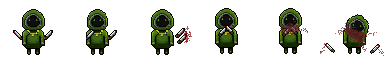
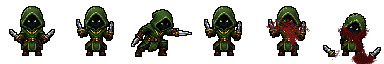
ccc

diff --git a/js/data.js b/js/data.js
@@ -44,7 +44,7 @@ const GAUNTLET_UNRANKED_OPPONENTS = {
     baseEnemyId: "bandit",
     className: "bandit",
     spriteSheet: "",
-    stats: { maxHp: 430, damage: 29, attackSpeed: 0.95, armor: 6 }
+    stats: { maxHp: 430, damage: 29, attackSpeed: 0.95, armor: 6, armorPiercing: 2 }
   },
   iron_contender: {
     id: "iron_contender",
@@ -52,7 +52,7 @@ const GAUNTLET_UNRANKED_OPPONENTS = {
     baseEnemyId: "armored_knight",
     className: "armored-knight",
     spriteSheet: "",
-    stats: { maxHp: 900, damage: 45, attackSpeed: 1.05, armor: 12 }
+    stats: { maxHp: 900, damage: 45, attackSpeed: 1.05, armor: 12, armorPiercing: 4 }
   },
   grave_veteran: {
     id: "grave_veteran",
@@ -60,7 +60,7 @@ const GAUNTLET_UNRANKED_OPPONENTS = {
     baseEnemyId: "wraith",
     className: "wraith",
     spriteSheet: "",
-    stats: { maxHp: 1500, damage: 68, attackSpeed: 1.08, armor: 10 }
+    stats: { maxHp: 1500, damage: 68, attackSpeed: 1.08, armor: 10, armorPiercing: 4 }
   },
   crown_champion: {
     id: "crown_champion",
@@ -68,7 +68,7 @@ const GAUNTLET_UNRANKED_OPPONENTS = {
     baseEnemyId: "fallen_knight",
     className: "fallen-knight",
     spriteSheet: "",
-    stats: { maxHp: 3000, damage: 88, attackSpeed: 1.1, armor: 15 }
+    stats: { maxHp: 3000, damage: 88, attackSpeed: 1.1, armor: 15, armorPiercing: 6 }
   }
 };
 
@@ -88,16 +88,16 @@ const GAUNTLET_HERO_LEADER_CONFIGS = [
 ];
 
 const GAUNTLET_ENEMY_LEADER_CONFIGS = [
-  { id: "enemy_crown_tyrant", name: "Crown Tyrant", enemyId: "fallen_knight", className: "fallen-knight", rank: 1, spriteSheet: "", stats: { maxHp: 6900, damage: 320, attackSpeed: 1.08, armor: 58 } },
-  { id: "enemy_void_wraith", name: "Void Wraith", enemyId: "wraith", className: "wraith", rank: 2, spriteSheet: "", stats: { maxHp: 5600, damage: 345, attackSpeed: 1.22, armor: 40 } },
-  { id: "enemy_crypt_lord", name: "Crypt Lord", enemyId: "necromancer", className: "necromancer", rank: 3, spriteSheet: "", stats: { maxHp: 5100, damage: 280, attackSpeed: 1.05, armor: 44 } },
-  { id: "enemy_iron_oath", name: "Iron Oath", enemyId: "armored_knight", className: "armored-knight", rank: 4, spriteSheet: "", stats: { maxHp: 4700, damage: 235, attackSpeed: 0.98, armor: 50 } },
-  { id: "enemy_blood_acolyte", name: "Blood Acolyte", enemyId: "cultist", className: "cultist", rank: 5, spriteSheet: "", stats: { maxHp: 3900, damage: 230, attackSpeed: 1.16, armor: 28 } },
-  { id: "enemy_marsh_stalker", name: "Marsh Stalker", enemyId: "plague_rat", className: "plague-rat", rank: 6, spriteSheet: "", stats: { maxHp: 3300, damage: 190, attackSpeed: 1.45, armor: 20 } },
-  { id: "enemy_dark_marksman", name: "Dark Marksman", enemyId: "dark_archer", className: "dark-archer", rank: 7, spriteSheet: "", stats: { maxHp: 2900, damage: 185, attackSpeed: 1.18, armor: 18 } },
-  { id: "enemy_war_troll", name: "War Troll", enemyId: "troll", className: "troll", rank: 8, spriteSheet: "", stats: { maxHp: 3600, damage: 155, attackSpeed: 0.72, armor: 30 } },
-  { id: "enemy_red_raider", name: "Red Raider", enemyId: "raider", className: "raider", rank: 9, spriteSheet: "", stats: { maxHp: 2400, damage: 150, attackSpeed: 1.1, armor: 16 } },
-  { id: "enemy_goblin_duke", name: "Goblin Duke", enemyId: "goblin", className: "goblin", rank: 10, spriteSheet: "", stats: { maxHp: 2000, damage: 125, attackSpeed: 1.24, armor: 12 } }
+  { id: "enemy_crown_tyrant", name: "Crown Tyrant", enemyId: "fallen_knight", className: "fallen-knight", rank: 1, spriteSheet: "", stats: { maxHp: 6900, damage: 320, attackSpeed: 1.08, armor: 58, armorPiercing: 18 } },
+  { id: "enemy_void_wraith", name: "Void Wraith", enemyId: "wraith", className: "wraith", rank: 2, spriteSheet: "", stats: { maxHp: 5600, damage: 345, attackSpeed: 1.22, armor: 40, armorPiercing: 15 } },
+  { id: "enemy_crypt_lord", name: "Crypt Lord", enemyId: "necromancer", className: "necromancer", rank: 3, spriteSheet: "", stats: { maxHp: 5100, damage: 280, attackSpeed: 1.05, armor: 44, armorPiercing: 13 } },
+  { id: "enemy_iron_oath", name: "Iron Oath", enemyId: "armored_knight", className: "armored-knight", rank: 4, spriteSheet: "", stats: { maxHp: 4700, damage: 235, attackSpeed: 0.98, armor: 50, armorPiercing: 12 } },
+  { id: "enemy_blood_acolyte", name: "Blood Acolyte", enemyId: "cultist", className: "cultist", rank: 5, spriteSheet: "", stats: { maxHp: 3900, damage: 230, attackSpeed: 1.16, armor: 28, armorPiercing: 10 } },
+  { id: "enemy_marsh_stalker", name: "Marsh Stalker", enemyId: "plague_rat", className: "plague-rat", rank: 6, spriteSheet: "", stats: { maxHp: 3300, damage: 190, attackSpeed: 1.45, armor: 20, armorPiercing: 8 } },
+  { id: "enemy_dark_marksman", name: "Dark Marksman", enemyId: "dark_archer", className: "dark-archer", rank: 7, spriteSheet: "", stats: { maxHp: 2900, damage: 185, attackSpeed: 1.18, armor: 18, armorPiercing: 7 } },
+  { id: "enemy_war_troll", name: "War Troll", enemyId: "troll", className: "troll", rank: 8, spriteSheet: "", stats: { maxHp: 3600, damage: 155, attackSpeed: 0.72, armor: 30, armorPiercing: 6 } },
+  { id: "enemy_red_raider", name: "Red Raider", enemyId: "raider", className: "raider", rank: 9, spriteSheet: "", stats: { maxHp: 2400, damage: 150, attackSpeed: 1.1, armor: 16, armorPiercing: 5 } },
+  { id: "enemy_goblin_duke", name: "Goblin Duke", enemyId: "goblin", className: "goblin", rank: 10, spriteSheet: "", stats: { maxHp: 2000, damage: 125, attackSpeed: 1.24, armor: 12, armorPiercing: 4 } }
 ];
 
 const GAUNTLET_SHOP_UPGRADES = [
@@ -425,27 +425,27 @@ function getEnemySkinSet(enemyId, enemyName) {
 }
 
 const ENEMY_ARCHETYPES = {
-  goblin: { id: "goblin", name: "Goblin", hp: 40, damage: 7, attackSpeed: 0.8, armor: 0, className: "goblin" },
-  wolf: { id: "wolf", name: "Wolf", hp: 46, damage: 10, attackSpeed: 0.98, armor: 0, className: "wolf" },
-  bandit: { id: "bandit", name: "Bandit", hp: 54, damage: 9, attackSpeed: 0.82, armor: 1, className: "bandit" },
-  plagueRat: { id: "plague_rat", name: "Plague Rat", hp: 32, damage: 6, attackSpeed: 1.09, armor: 0, className: "plague_rat" },
-  darkArcher: { id: "dark_archer", name: "Dark Archer", hp: 48, damage: 12, attackSpeed: 0.76, armor: 1, className: "dark_archer" },
+  goblin: { id: "goblin", name: "Goblin", hp: 40, damage: 7, attackSpeed: 0.8, armor: 0, armorPiercing: 0, className: "goblin" },
+  wolf: { id: "wolf", name: "Wolf", hp: 46, damage: 10, attackSpeed: 0.98, armor: 0, armorPiercing: 0, className: "wolf" },
+  bandit: { id: "bandit", name: "Bandit", hp: 54, damage: 9, attackSpeed: 0.82, armor: 1, armorPiercing: 1, className: "bandit" },
+  plagueRat: { id: "plague_rat", name: "Plague Rat", hp: 32, damage: 6, attackSpeed: 1.09, armor: 0, armorPiercing: 0, className: "plague_rat" },
+  darkArcher: { id: "dark_archer", name: "Dark Archer", hp: 48, damage: 12, attackSpeed: 0.76, armor: 1, armorPiercing: 1, className: "dark_archer" },
 
-  skeleton: { id: "skeleton", name: "Skeleton", hp: 46, damage: 11, attackSpeed: 0.66, armor: 1, className: "skeleton" },
-  wraith: { id: "wraith", name: "Wraith", hp: 52, damage: 13, attackSpeed: 0.84, armor: 2, className: "wraith" },
-  necromancer: { id: "necromancer", name: "Necromancer", hp: 58, damage: 17, attackSpeed: 0.54, armor: 2, className: "necromancer" },
+  skeleton: { id: "skeleton", name: "Skeleton", hp: 46, damage: 11, attackSpeed: 0.66, armor: 1, armorPiercing: 1, className: "skeleton" },
+  wraith: { id: "wraith", name: "Wraith", hp: 52, damage: 13, attackSpeed: 0.84, armor: 2, armorPiercing: 2, className: "wraith" },
+  necromancer: { id: "necromancer", name: "Necromancer", hp: 58, damage: 17, attackSpeed: 0.54, armor: 2, armorPiercing: 2, className: "necromancer" },
 
-  orc: { id: "orc", name: "Orc", hp: 76, damage: 11, attackSpeed: 0.54, armor: 3, className: "orc" },
-  raider: { id: "raider", name: "Raider", hp: 66, damage: 13, attackSpeed: 0.72, armor: 2, className: "raider" },
-  troll: { id: "troll", name: "Troll", hp: 112, damage: 17, attackSpeed: 0.28, armor: 4, className: "troll" },
-  armoredKnight: { id: "armored_knight", name: "Armored Knight", hp: 98, damage: 14, attackSpeed: 0.5, armor: 7, className: "armored_knight" },
+  orc: { id: "orc", name: "Orc", hp: 76, damage: 11, attackSpeed: 0.54, armor: 3, armorPiercing: 2, className: "orc" },
+  raider: { id: "raider", name: "Raider", hp: 66, damage: 13, attackSpeed: 0.72, armor: 2, armorPiercing: 2, className: "raider" },
+  troll: { id: "troll", name: "Troll", hp: 112, damage: 17, attackSpeed: 0.28, armor: 4, armorPiercing: 3, className: "troll" },
+  armoredKnight: { id: "armored_knight", name: "Armored Knight", hp: 98, damage: 14, attackSpeed: 0.5, armor: 7, armorPiercing: 3, className: "armored_knight" },
 
-  fallenKnight: { id: "fallen_knight", name: "Fallen Knight", hp: 108, damage: 17, attackSpeed: 0.53, armor: 7, className: "fallen_knight" },
-  cultist: { id: "cultist", name: "Cultist", hp: 72, damage: 18, attackSpeed: 0.62, armor: 2, className: "cultist" },
-  fallenKing: { id: "fallen_king_shade", name: "Fallen King", hp: 135, damage: 22, attackSpeed: 0.46, armor: 6, className: "boss" },
-  crownHound: { id: "crown_hound", name: "Crown Hound", hp: 82, damage: 15, attackSpeed: 0.92, armor: 2, className: "wolf", requiresNode: "unlock_enemies" },
-  oathbreaker: { id: "oathbreaker", name: "Oathbreaker", hp: 118, damage: 19, attackSpeed: 0.58, armor: 8, className: "fallen_knight", requiresNode: "unlock_enemies" },
-  bloodAcolyte: { id: "blood_acolyte", name: "Blood Acolyte", hp: 86, damage: 21, attackSpeed: 0.64, armor: 3, className: "cultist", requiresNode: "unlock_enemies" }
+  fallenKnight: { id: "fallen_knight", name: "Fallen Knight", hp: 108, damage: 17, attackSpeed: 0.53, armor: 7, armorPiercing: 4, className: "fallen_knight" },
+  cultist: { id: "cultist", name: "Cultist", hp: 72, damage: 18, attackSpeed: 0.62, armor: 2, armorPiercing: 2, className: "cultist" },
+  fallenKing: { id: "fallen_king_shade", name: "Fallen King", hp: 135, damage: 22, attackSpeed: 0.46, armor: 6, armorPiercing: 4, className: "boss" },
+  crownHound: { id: "crown_hound", name: "Crown Hound", hp: 82, damage: 15, attackSpeed: 0.92, armor: 2, armorPiercing: 2, className: "wolf", requiresNode: "unlock_enemies" },
+  oathbreaker: { id: "oathbreaker", name: "Oathbreaker", hp: 118, damage: 19, attackSpeed: 0.58, armor: 8, armorPiercing: 4, className: "fallen_knight", requiresNode: "unlock_enemies" },
+  bloodAcolyte: { id: "blood_acolyte", name: "Blood Acolyte", hp: 86, damage: 21, attackSpeed: 0.64, armor: 3, armorPiercing: 3, className: "cultist", requiresNode: "unlock_enemies" }
 };
 
 const ENEMY_AREAS = {
@@ -882,9 +882,9 @@ const DIFFICULTIES = {
 };
 
 const BOSSES = [
-  { id: "fallenKing", name: "The Fallen King", skillName: "Crownbreaker Slam", hp: 300, damage: 20, attackSpeed: 0.5, armor: 4, className: "boss", boss: true },
-  { id: "ashenRegent", name: "The Ashen Regent", skillName: "Ember Edict", hp: 420, damage: 28, attackSpeed: 0.46, armor: 6, className: "boss", boss: true },
-  { id: "crownfallTyrant", name: "The Crownfall Tyrant", skillName: "Imperial Ruin", hp: 620, damage: 34, attackSpeed: 0.45, armor: 8, className: "boss", boss: true }
+  { id: "fallenKing", name: "The Fallen King", skillName: "Crownbreaker Slam", hp: 300, damage: 20, attackSpeed: 0.5, armor: 4, armorPiercing: 3, className: "boss", boss: true },
+  { id: "ashenRegent", name: "The Ashen Regent", skillName: "Ember Edict", hp: 420, damage: 28, attackSpeed: 0.46, armor: 6, armorPiercing: 4, className: "boss", boss: true },
+  { id: "crownfallTyrant", name: "The Crownfall Tyrant", skillName: "Imperial Ruin", hp: 620, damage: 34, attackSpeed: 0.45, armor: 8, armorPiercing: 5, className: "boss", boss: true }
 ];
 
 const FINAL_BOSS = {
@@ -895,6 +895,7 @@ const FINAL_BOSS = {
   damage: 300,
   attackSpeed: 1.0,
   armor: 50,
+  armorPiercing: 12,
   shield: 0,
   className: "boss",
   boss: true,

diff --git a/js/ui.js b/js/ui.js
@@ -520,7 +520,8 @@ function renderEnemyCharacterDetails(enemyId) {
     ["HP", Math.round(enemy.hp * ENEMY_BASE_STAT_MULTIPLIER)],
     ["Damage", (enemy.damage * ENEMY_BASE_STAT_MULTIPLIER).toFixed(1)],
     ["Atk Spd", (enemy.attackSpeed * ENEMY_BASE_STAT_MULTIPLIER).toFixed(2)],
-    ["Armor", Math.round(enemy.armor * ENEMY_BASE_STAT_MULTIPLIER)]
+    ["Armor", Math.round(enemy.armor * ENEMY_BASE_STAT_MULTIPLIER)],
+    ["Armor Piercing", Math.round((enemy.armorPiercing || 0) * ENEMY_BASE_STAT_MULTIPLIER)]
   ];
   characterDetails.innerHTML = `<div class="character-detail-top"><div class="character-detail-preview enemy ${enemy.className} ${skin.className} sprite-sheet-unit"><div class="sprite" style="${getSpriteBackgroundStyle(getEnemySpriteSheet(enemy), "enemy", enemy.id, skin)};background-size:600% 100%;background-position:0% center;"></div></div><div><h3>${enemy.name}</h3><p>${escapeHtml(difficultyText)}</p><small>Equipped: ${escapeHtml(equippedSkin.name)}${skin.id !== equippedSkin.id ? ` | Previewing: ${escapeHtml(skin.name)}` : ""}</small></div></div>${renderCharacterStatGrid(stats)}${renderSkinPicker("enemy", enemy.id, getEnemySkinSet(enemy.id, enemy.name))}`;
   wireSkinPicker("enemy", enemy.id);
@@ -1540,9 +1541,9 @@ const RARITY_SORT_RANK = { Mythic: 6, Legendary: 5, Epic: 4, Rare: 3, Uncommon: 
 function getHeroDodgeChance(hero) { return Math.min(STAT_CAPS.dodge, getPermanentEffectTotal("evasion", hero.id) + (hero.runEvasion || 0)); }
 function getHeroBattleAttackSpeedBonusCap(hero) { return getPermanentEffectTotal("killAttackSpeedMax", hero.id) || 0.35; }
 function getHeroSplashDamageMultiplier(hero) { return 0.5 + getPermanentEffectTotal("splashDamageMultiplier", hero.id) + (hero.runSplashDamageMultiplier || 0); }
-function renderEnemyStats() { const enemies = battle?.enemies || []; enemyStats.innerHTML = enemies.length ? enemies.map(e => `<div class="enemy-stat-row"><strong>${escapeHtml(e.name)}</strong><div class="enemy-status">${e.hp > 0 ? "ALIVE" : "DEAD"}</div><div class="enemy-stat-chips"><span>HP ${e.buildTestBoss ? "Infinite" : `${Math.max(0, Math.ceil(e.hp))}/${Math.ceil(e.maxHp)}`}</span><span>DMG ${Number(e.damage).toFixed(1)}</span><span>AS ${getEnemyAttackSpeed(e).toFixed(2)}</span><span>ARM ${e.armor}</span></div></div>`).join("") : `<div class="enemy-stat-empty">No active enemies</div>`; }
+function renderEnemyStats() { const enemies = battle?.enemies || []; enemyStats.innerHTML = enemies.length ? enemies.map(e => `<div class="enemy-stat-row"><strong>${escapeHtml(e.name)}</strong><div class="enemy-status">${e.hp > 0 ? "ALIVE" : "DEAD"}</div><div class="enemy-stat-chips"><span>HP ${e.buildTestBoss ? "Infinite" : `${Math.max(0, Math.ceil(e.hp))}/${Math.ceil(e.maxHp)}`}</span><span>DMG ${Number(e.damage).toFixed(1)}</span><span>AS ${getEnemyAttackSpeed(e).toFixed(2)}</span><span>ARM ${e.armor}</span><span>AP ${e.armorPiercing || 0}</span></div></div>`).join("") : `<div class="enemy-stat-empty">No active enemies</div>`; }
 function statCell(label, value, tooltip) { return `<div class="tooltip-item" data-tooltip="${escapeHtml(tooltip)}"><small>${label}</small><strong>${value}</strong></div>`; }
-function getTermTooltip(term) { return ({ Damage: "How much health an attack removes before armor.", Armor: "Reduces incoming hit damage.", "Atk Spd": "How many attacks happen each second.", "Attack speed": "How many attacks happen each second.", Crit: "Chance for an attack to deal critical damage.", "Crit chance": "Chance for an attack to deal critical damage.", Shield: "Temporary protection that absorbs damage before health.", Health: "Current and maximum HP.", Luck: "Improves reward, relic, and shop rolls.", Gold: "Currency used during this run at merchants.", Essence: "Currency used between runs to buy permanent upgrades and unlocks.", Block: "Chance to reduce incoming hit damage.", Dodge: "Chance to avoid enemy attacks.", Evasion: "Chance to avoid enemy attacks.", Execute: "Bonus damage against enemies below the listed health threshold.", "Crit Damage": "Extra critical-hit damage from talents, relics, and upgrades.", "Atk Bonus": "Temporary attack speed gained during this battle.", "Dmg Bonus": "Temporary damage gained during this battle.", "Shield Cap": "Maximum shield this hero can hold.", "Life Steal": "Heals for part of the damage you deal.", "Start Shield": "Shield gained at battle start.", Bleed: "Rogue bleed damage per second based on the Rogue's maximum HP. One bleed can be active on each enemy.", Poison: "Damage per second from rogue poison effects.", Burn: "Damage per second from burn effects. New burns stack their damage on an existing burn.", "Splash Damage": "Damage dealt to secondary targets when wizard splash magic triggers." })[term] || "A combat stat or effect."; }
+function getTermTooltip(term) { return ({ Damage: "How much health an attack removes before armor.", Armor: "Reduces incoming hit damage.", "Armor Piercing": "Ignores this much hero armor when this enemy attacks, down to zero armor.", "Atk Spd": "How many attacks happen each second.", "Attack speed": "How many attacks happen each second.", Crit: "Chance for an attack to deal critical damage.", "Crit chance": "Chance for an attack to deal critical damage.", Shield: "Temporary protection that absorbs damage before health.", Health: "Current and maximum HP.", Luck: "Improves reward, relic, and shop rolls.", Gold: "Currency used during this run at merchants.", Essence: "Currency used between runs to buy permanent upgrades and unlocks.", Block: "Chance to reduce incoming hit damage.", Dodge: "Chance to avoid enemy attacks.", Evasion: "Chance to avoid enemy attacks.", Execute: "Bonus damage against enemies below the listed health threshold.", "Crit Damage": "Extra critical-hit damage from talents, relics, and upgrades.", "Atk Bonus": "Temporary attack speed gained during this battle.", "Dmg Bonus": "Temporary damage gained during this battle.", "Shield Cap": "Maximum shield this hero can hold.", "Life Steal": "Heals for part of the damage you deal.", "Start Shield": "Shield gained at battle start.", Bleed: "Rogue bleed damage per second based on the Rogue's maximum HP. One bleed can be active on each enemy.", Poison: "Damage per second from rogue poison effects.", Burn: "Damage per second from burn effects. New burns stack their damage on an existing burn.", "Splash Damage": "Damage dealt to secondary targets when wizard splash magic triggers." })[term] || "A combat stat or effect."; }
 function renderActiveSkills() { activeSkills.innerHTML = battle ? Object.entries(battle.activeSkills || {}).map(([name, time]) => `<div class="active-skill"><b>*</b><strong>${escapeHtml(name)}</strong><span>${time.toFixed(1)}s</span></div>`).join("") : ""; }
 function renderSpecialSkills() { const ids = run?.hero?.runAbilities || []; specialSkills.innerHTML = ids.length ? `<div class="special-skill-title">Special Skills</div><div class="special-skill-row">${ids.map(id => `<div class="special-skill"><b>${getAbilityIconMarkup(RUN_ABILITIES[id])}</b><strong>${RUN_ABILITIES[id].name}</strong><span>${Math.max(0, battle?.abilityCooldowns?.[id] || 0).toFixed(1)}s</span></div>`).join("")}</div>` : `<div class="special-skill-empty">No special skills unlocked</div>`; }
 function getAbilityIconMarkup(ability) { return `<span class="ability-icon ability-icon-${ability.id}" style="--ability-color:${ability.color}">${ability.icon}</span>`; }

diff --git a/js/combat.js b/js/combat.js
@@ -188,6 +188,7 @@ function makeEnemy(base, x, y, boss, nodeType) {
   const scaledDamage = base.damage * ENEMY_BASE_STAT_MULTIPLIER;
   const scaledAttackSpeed = base.attackSpeed * ENEMY_BASE_STAT_MULTIPLIER;
   const scaledArmor = Math.round((base.armor || 0) * ENEMY_BASE_STAT_MULTIPLIER);
+  const scaledArmorPiercing = Math.round((base.armorPiercing || 0) * ENEMY_BASE_STAT_MULTIPLIER);
   if (base.finalBoss || nodeType === "FinalBoss") {
     return {
       ...base,
@@ -198,6 +199,7 @@ function makeEnemy(base, x, y, boss, nodeType) {
       maxHp: scaledHp,
       damage: scaledDamage,
       armor: 0,
+      armorPiercing: scaledArmorPiercing,
       shield: 0,
       attackSpeed: scaledAttackSpeed,
       attackCooldown: 1 / Math.max(0.01, scaledAttackSpeed),
@@ -245,6 +247,7 @@ function makeEnemy(base, x, y, boss, nodeType) {
     maxHp: Math.round(scaledHp * hpMult),
     damage: scaledDamage * dmgMult * (eliteMod ? (eliteMod.damageMultiplier || 1) : 1),
     armor: scaledArmor + Math.floor(run.stage / (difficulty.armorGrowth || 4)) + secondLayerArmor + (miniBoss ? 2 : 0) + (eliteMod ? (eliteMod.armor || 0) : 0),
+    armorPiercing: scaledArmorPiercing,
     attackSpeed: scaledAttackSpeed * (miniBoss ? 1.05 : 1) * (eliteMod ? (eliteMod.attackSpeedMultiplier || 1) : 1),
     attackCooldown: 1 / Math.max(0.01, scaledAttackSpeed * (miniBoss ? 1.05 : 1) * (eliteMod ? (eliteMod.attackSpeedMultiplier || 1) : 1)),
     skinClass: skin.className,
@@ -626,7 +629,8 @@ function enemyAttack(enemy, hero) {
     battle.guardianSealUsed = true;
   }
   const holyShieldActive = (hero.holyShieldHitsRemaining || 0) > 0;
-  const effectiveArmor = holyShieldActive ? hero.armor * (1 + (hero.holyShieldArmorBonus || 0.5)) : hero.armor;
+  const rawEffectiveArmor = holyShieldActive ? hero.armor * (1 + (hero.holyShieldArmorBonus || 0.5)) : hero.armor;
+  const effectiveArmor = Math.max(0, rawEffectiveArmor - Math.max(0, Number(enemy.armorPiercing) || 0));
   if (holyShieldActive) {
     hero.holyShieldHitsRemaining -= 1;
     addFloat(hero.x, hero.y - 76, "Holy Guard", "#fde68a", { variant: "block" });

diff --git a/js/gauntlet.js b/js/gauntlet.js
@@ -43,7 +43,8 @@ function createGauntletLeader(entry) {
       maxHp: Math.round((source.hp || 300) * 1.45 * rankPower),
       damage: Math.round((source.damage || 46) * 1.35 * rankPower * 10) / 10,
       attackSpeed: Math.round((source.attackSpeed || 0.9) * (1 + (11 - entry.rank) * 0.018) * 100) / 100,
-      armor: Math.round((source.armor || 5) + (11 - entry.rank) * 0.8)
+      armor: Math.round((source.armor || 5) + (11 - entry.rank) * 0.8),
+      armorPiercing: Math.round((source.armorPiercing || 1) + (11 - entry.rank) * 0.6)
     }
   };
 }
@@ -135,7 +136,7 @@ function renderGauntletLeaderboard(entries, type) {
     const defeated = entry.defeatedByPlayer ? `<em>Defeated</em>` : "";
     return `<div class="gauntlet-rank-row">
       <div class="gauntlet-rank">#${entry.rank}</div>
-      <div><strong>${escapeHtml(entry.name)}</strong><span>${className} | ${entry.points} pts ${defeated}</span><small>HP ${entry.stats.maxHp} | DMG ${entry.stats.damage} | AS ${entry.stats.attackSpeed} | ARM ${entry.stats.armor}</small></div>
+      <div><strong>${escapeHtml(entry.name)}</strong><span>${className} | ${entry.points} pts ${defeated}</span><small>HP ${entry.stats.maxHp} | DMG ${entry.stats.damage} | AS ${entry.stats.attackSpeed} | ARM ${entry.stats.armor} | AP ${entry.stats.armorPiercing || 0}</small></div>
       <button onclick="startGauntletBattle(null, '${type}', ${entry.rank})" ${challenge.canChallenge ? "" : "disabled"}>${challenge.label}</button>
     </div>`;
   }).join("");
@@ -272,6 +273,7 @@ function makeGauntletEnemy(opponent) {
   enemy.attackSpeed = (stats.attackSpeed || enemy.attackSpeed) * Math.sqrt(multiplier);
   enemy.attackCooldown = 1 / Math.max(0.01, enemy.attackSpeed);
   enemy.armor = Math.round((stats.armor ?? enemy.armor) * Math.sqrt(multiplier));
+  enemy.armorPiercing = Math.round((stats.armorPiercing ?? enemy.armorPiercing ?? 0) * Math.sqrt(multiplier));
   enemy.statusEffects = {};
   return enemy;
 }